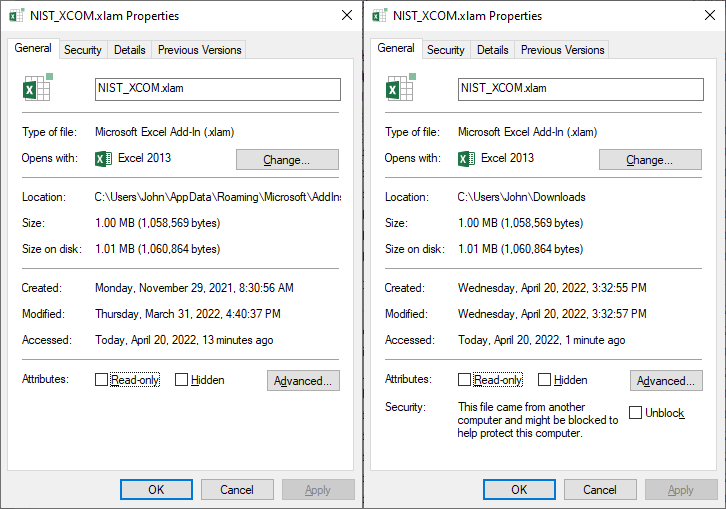
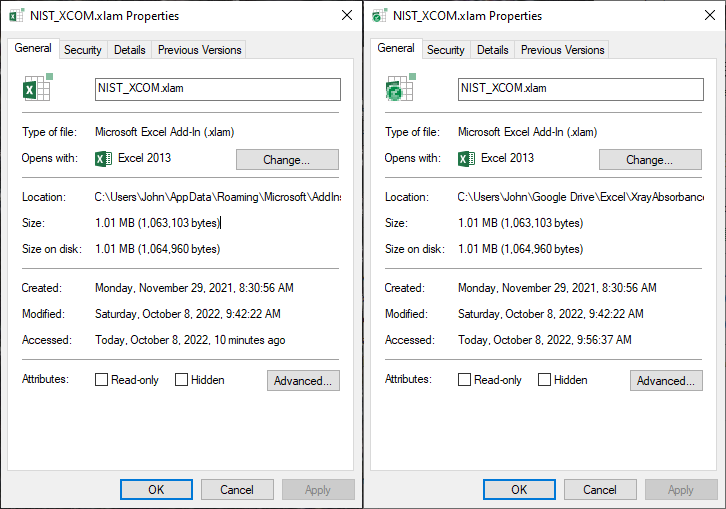
Add PullDown Menu Items for X-ray source Spectra

diff --git a/XrayCalculatorExcel.html b/XrayCalculatorExcel.html
@@ -10,7 +10,7 @@
 <p>Installation: <strong>NIST_XCOM.xlam&nbsp;</strong>is available for download <a href="https://drive.google.com/file/d/1rW9cgODtGdSxpX6HEDElakfirIEIL3Hx/view?usp=sharing" target="_blank">here</a>. Place it in a folder where Excel can find it, on a PC usually C:\Users\YourUserName\AppData\Roaming\Microsoft\AddIns\
 <br>Start Excel. In the DEVELOPER tab click the Add-Ins icon. In the Dialog check NIST_Xcom. Click OK.
 <br>An ADD-INS tab should appear in the ribbon.
-<br><em>Special Note: Downloading Excel add-ins and macro enabled workbooks can be dangerous due to the possibility of embedded malware. Newer versions of Excel provide significant protection. Please take appropriate precautions before enabling any downloaded Excel workbook. This add-in file size after download should be 1,058,569bytes and 1,060,864bytes on disk.</em></p>
+<br><em>Special Note: Downloading Excel add-ins and macro enabled workbooks can be dangerous due to the possibility of embedded malware. Newer versions of Excel provide significant protection. Please take appropriate precautions before enabling any downloaded Excel workbook. This add-in file size after download should be 1,063,103bytes and 1,064,960bytes on disk.</em></p>
 
 <center><figure class="easyimage easyimage-full"><img alt="" src="Images/Excel/NIST_XCOM_Downloaded_Properties.png" width="600" />
 <figcaption><strong>NIST_XCOM.xlam File Size on disk(left), Downloaded(right)</strong></figcaption></figure></center>
